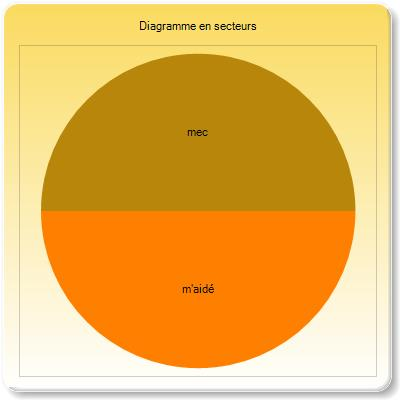
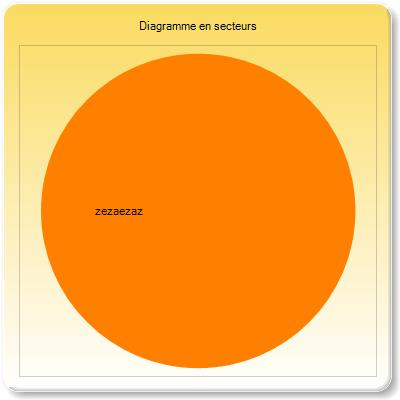
Choix creation en liste

Changed region(s): [[0.09, 0.12, 0.9, 0.54], [0.45, 0.69, 0.54, 0.75]]

diff --git a/c sharp/DCSONDAGE V1/DCSONDAGE V1/Content/style.css b/c sharp/DCSONDAGE V1/DCSONDAGE V1/Content/style.css
@@ -178,4 +178,4 @@ footer a:hover{
         width: 100%;
         height: auto;
     }
-
+}

diff --git a/c sharp/DCSONDAGE V1/DCSONDAGE V1/Controllers/ResultatController.cs b/c sharp/DCSONDAGE V1/DCSONDAGE V1/Controllers/ResultatController.cs
@@ -17,7 +17,9 @@ namespace DCSONDAGE_V1.Controllers
         }
         public ActionResult VoteU(Int32 id)
         {
-            if (id < 20)
+            int typesondage;
+            typesondage = BDD.GetTypeSondage(id);
+            if (typesondage < 20)
             {
                 String cookiename = String.Format("Vote{0}", id);
 
@@ -75,7 +77,9 @@ namespace DCSONDAGE_V1.Controllers
         }
         public ActionResult VoteM(Int32 id)
         {
-            if (id <20)
+            int typesondage;
+            typesondage = BDD.GetTypeSondage(id);
+            if (typesondage < 20)
             {
                 String cookiename = String.Format("Vote{0}", id);
                 if (Request.Cookies[cookiename] != null)
@@ -104,7 +108,7 @@ namespace DCSONDAGE_V1.Controllers
                 ipEnBDD = BDD.GetIp(id);
                 foreach (var ipCourante in ipEnBDD)
                 {
-                    if(ipCourante == Request.UserHostAddress.ToString())
+                    if (ipCourante == Request.UserHostAddress.ToString())
                     {
                         ipPresenteEnBDD = true;
                     }
@@ -130,8 +134,8 @@ namespace DCSONDAGE_V1.Controllers
                     }
                 }
             }
-           
-            
+
+
         }
         public ActionResult Submit(Int32 radioname, Int32 numSondage)
         {
@@ -160,7 +164,6 @@ namespace DCSONDAGE_V1.Controllers
             }
         }
         public ActionResult AffichageResultat(Int32 id)
-
         {
 
             AfficheResultat affiche2 = BDD.requeteSqlRecupListeChoixetIdetNbVote(id);
@@ -172,7 +175,7 @@ namespace DCSONDAGE_V1.Controllers
 
              .AddSeries("Default", chartType: "Pie",// pas changé
 
-            xValue: cammembert.listeChoixVote  , xField: "listeChoixVote", // a changer par nomChoix
+            xValue: cammembert.listeChoixVote, xField: "listeChoixVote", // a changer par nomChoix
 
             yValues: cammembert.listePourcentage, yFields: "ListePourcentage").Save("~/Content/dessin.jpeg"); //  a changer par la sum des votes de chaque choix
 
@@ -186,70 +189,85 @@ namespace DCSONDAGE_V1.Controllers
 
             yValues: affiche2.pourcentageParChoixPourModel, yFields: "pourcentageParChoixPourModel").Save("~/Content/dessin2.jpeg"); //  a changer par la sum des votes de chaque choix
 
-            return View("AffichageResultat",affiche2);
+            return View("AffichageResultat", affiche2);
 
         }
 
-        
-        public ActionResult Submit2(Int32? choix0, Int32? choix1, Int32? choix2, Int32? choix3, Int32? choix4, Int32 idSondage)
+
+        public ActionResult Submit2(List<Int32> choix, Int32 idSondage)
         {
-            String cookiename = String.Format("Vote{0}", idSondage);
-            if (Request.Cookies[cookiename] != null)
+            int typesondage;
+            typesondage = BDD.GetTypeSondage(idSondage);
+            if (typesondage < 20)
             {
-                return Redirect(string.Format("/Resultat/AffichageResultat/{0}", idSondage));
+                String cookiename = String.Format("Vote{0}", idSondage);
+                if (Request.Cookies[cookiename] != null)
+                {
+                    return Redirect(string.Format("/Resultat/AffichageResultat/{0}", idSondage));
+                }
+
+                else
+                {
+                    HttpCookie UnCookie = new HttpCookie(cookiename);
+                    UnCookie.Value = "A deja voté";
+                    UnCookie.Expires = DateTime.Now.AddDays(1);
+                    Response.Cookies.Add(UnCookie);
+
+                    if (BDD.testSiVoteDesactive(idSondage))
+                    {
+                        return View("Erreur", (Object)"Impossible de prendre votre vote en compte le sondage a été desactivé !");
+                    }
+                    else
+                    {
+                        int idduVotant = BDD.requeteSqlDepotvotant(Request.UserHostAddress.ToString());
+                        BDD.requeteSqlDepotDesVotesMultiple(choix, idduVotant);
+                        return Redirect(string.Format("/Resultat/AffichageResultat/{0}", idSondage));
+                    }
+                }
             }
             else
             {
-                HttpCookie UnCookie = new HttpCookie(cookiename);
-                UnCookie.Value = "A deja voté";
-                UnCookie.Expires = DateTime.Now.AddDays(1);
-                Response.Cookies.Add(UnCookie);
-
-                if (BDD.testSiVoteDesactive(idSondage))
+                List<String> ipEnBDD = new List<string>();
+                bool ipPresenteEnBDD = false;
+                ipEnBDD = BDD.GetIp(idSondage);
+                foreach (var ipCourante in ipEnBDD)
                 {
-                    return View("Erreur", (Object)"Impossible de prendre votre vote en compte le sondage a été desactivé !");
+                    if (ipCourante == Request.UserHostAddress.ToString())
+                    {
+                        ipPresenteEnBDD = true;
+                    }
+                }
+                if (ipPresenteEnBDD)
+                {
+                    return Redirect(string.Format("/Resultat/AffichageResultat/{0}", idSondage));
                 }
                 else
                 {
-                    List<Int32> ListeDesChoixValidesParLeVotant = new List<Int32>();
-                    if (choix0 != null)
-                    {
-                        ListeDesChoixValidesParLeVotant.Add((Int32)choix0);
-                    }
-                    if (choix1 != null)
-                    {
-                        ListeDesChoixValidesParLeVotant.Add((Int32)choix1);
-                    }
-                    if (choix2 != null)
-                    {
-                        ListeDesChoixValidesParLeVotant.Add((Int32)choix2);
-                    }
-                    if (choix3 != null)
-                    {
-                        ListeDesChoixValidesParLeVotant.Add((Int32)choix3);
-                    }
-                    if (choix4 != null)
-                    {
-                        ListeDesChoixValidesParLeVotant.Add((Int32)choix4);
-                    }
 
-                    int idduVotant = BDD.requeteSqlDepotvotant(Request.UserHostAddress.ToString());
-                    BDD.requeteSqlDepotDesVotesMultiple(ListeDesChoixValidesParLeVotant, idduVotant);
-                    return Redirect(string.Format("/Resultat/AffichageResultat/{0}", idSondage));
+                    if (BDD.testSiVoteDesactive(idSondage))
+                    {
+                        return View("Erreur", (Object)"Impossible de prendre votre vote en compte le sondage a été desactivé !");
+                    }
+                    else
+                    {
+                        int idduVotant = BDD.requeteSqlDepotvotant(Request.UserHostAddress.ToString());
+                        BDD.requeteSqlDepotDesVotesMultiple(choix, idduVotant);
+                        return Redirect(string.Format("/Resultat/AffichageResultat/{0}", idSondage));
+                    }
                 }
             }
         }
         public ActionResult Suppression(String id)
         {
-            
-            int idSondage=BDD.rechercheEtDesactivationSondage(id);
 
-            if (idSondage==-1)
+            int idSondage = BDD.rechercheEtDesactivationSondage(id);
+
+            if (idSondage == -1)
             {
-                return View("Erreur",(object)"Mauvais lien de supression");
+                return View("Erreur", (object)"Mauvais lien de supression");
             }
 
-           
+
             return View("Supression");
         }
 

diff --git a/c sharp/DCSONDAGE V1/DCSONDAGE V1/Controllers/HomeController.cs b/c sharp/DCSONDAGE V1/DCSONDAGE V1/Controllers/HomeController.cs
@@ -18,7 +18,7 @@ namespace DCSONDAGE_V1.Controllers
         {
             return View("Creation");
         }
-        public ActionResult Submit(string titreSondage, Int32 restrictionSondage, Int32 RadioB, string Choix1, string Choix2, string Choix3, string Choix4, string Choix5)
+        public ActionResult Submit(string titreSondage,  List<String> creationChoix,Int32 restrictionSondage, Int32 RadioB)
         {
             if (titreSondage == "")
             {
@@ -26,35 +26,15 @@ namespace DCSONDAGE_V1.Controllers
             }
             else
             {
-                List<string> listechoix = new List<string>();
-                if (Choix1 != "")
-                {
-                    listechoix.Add(Choix1);
-                }
-                if (Choix2 != "")
-                {
-                    listechoix.Add(Choix2);
-                }
-                if (Choix3 != "")
-                {
-                    listechoix.Add(Choix3);
-                }
-                if (Choix4 != "")
-                {
-                    listechoix.Add(Choix4);
-                }
-                if (Choix5 != "")
-                {
-                    listechoix.Add(Choix5);
-                }
-                if (listechoix.Count < 2)
+                creationChoix.RemoveAll(T => (string.IsNullOrWhiteSpace(T)));
+
+                if (creationChoix.Count < 2)
                 {
                     return View("Erreur", (object)"vous n'avez pas rempli au moins 2 champs de reponses possibles");
                 }
 
                 Int32 idsondage = BDD.RequeteAjoutSqlSondage(titreSondage, RadioB+ restrictionSondage);
-
-                BDD.requetteAjoutSqlChoix(idsondage, listechoix);
+                BDD.requetteAjoutSqlChoix(idsondage, creationChoix);
                 Lien Liencourrant = new Lien(idsondage, RadioB+ restrictionSondage);
                 BDD.requetteAjoutSqlLienSuppr(idsondage, Liencourrant.Guidsuppression);
 

diff --git a/c sharp/DCSONDAGE V1/DCSONDAGE V1/Models/Lien.cs b/c sharp/DCSONDAGE V1/DCSONDAGE V1/Models/Lien.cs
@@ -32,7 +32,7 @@ namespace DCSONDAGE_V1.Models
         }
         public Lien(Int32 numSondage, Int32 typeSondage, String stringGuid)
         {
-            if (typeSondage == 1)
+            if (typeSondage%10 == 1)
             {
                 adresseLien1 = string.Format("/Resultat/VoteU/{0}", numSondage);  //vote
             }
